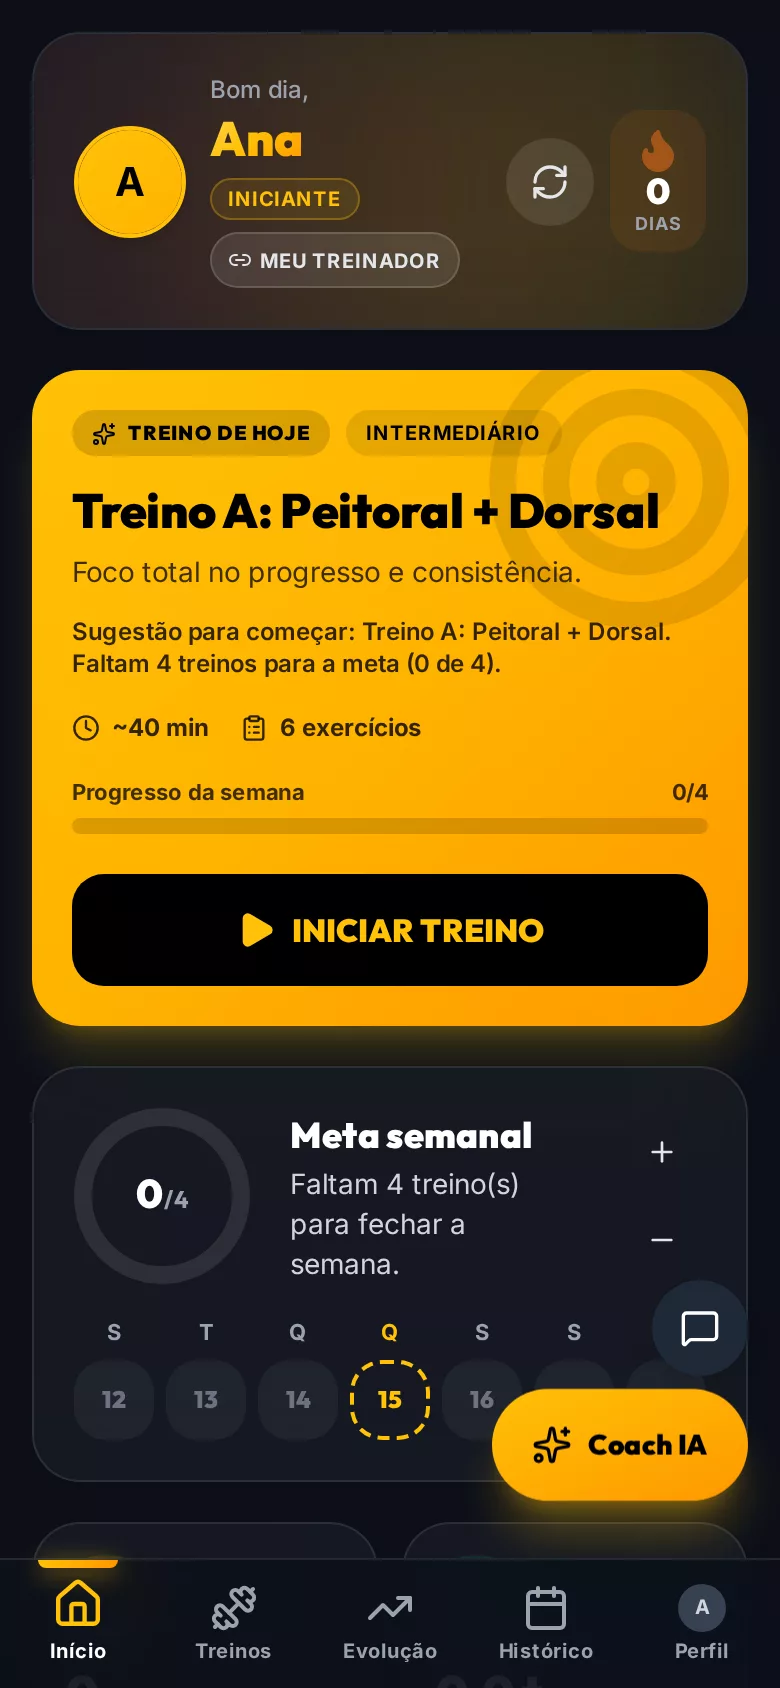
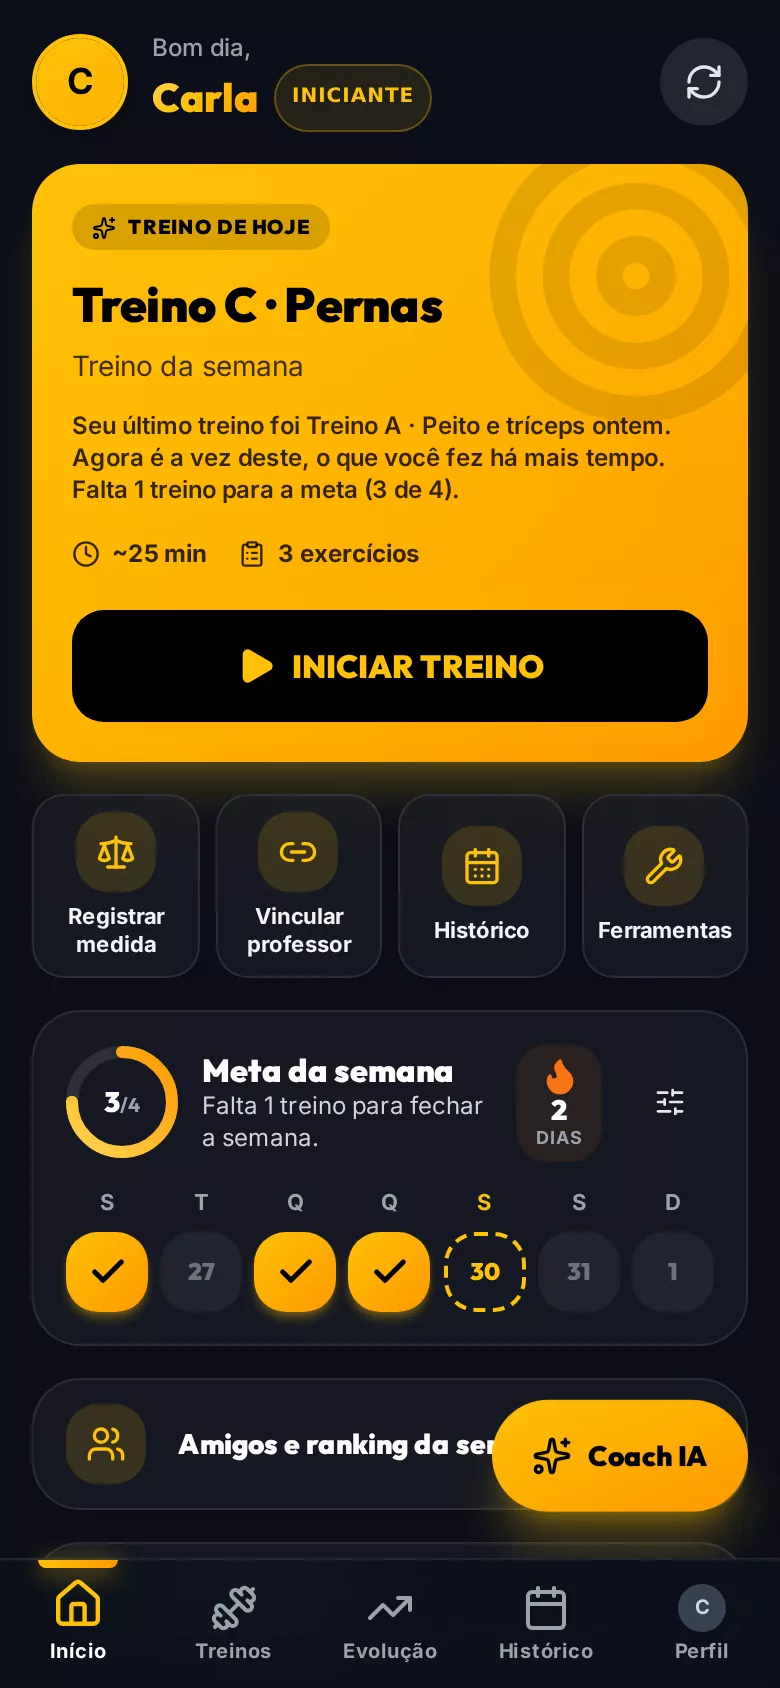
feat(landing): telas atuais, recursos à vista e passos numerados; Gestão com exemplo realista e CTA claro (#164)

diff --git a/src/pages/public/LandingPage.jsx b/src/pages/public/LandingPage.jsx
@@ -9,16 +9,20 @@ import './landing.css';
 // Telas reais do app (conta fictícia, dados de exemplo), recortadas como fotografias.
 const REEL = [
   { src: '/landing/descanso.webp', video: '/landing/descanso.webm', pos: '50% 48%', cap: 'Descanso automático entre as séries', alt: 'Tela do descanso: anel amarelo com a contagem 1:28 e botões de ajustar o tempo' },
-  { src: '/landing/treino.webp', pos: '50% 22%', cap: 'Carga e repetições com um toque', alt: 'Tela do treino em andamento: Supino Máquina, meta de 3 séries de 10 e botões de carga' },
-  { src: '/landing/coach-ia.webp', pos: '50% 62%', cap: 'O Coach de IA monta a ficha que você pede', alt: 'Conversa com o Coach de IA: ficha de pernas só com máquinas' },
-  { src: '/landing/fichas.webp', pos: '50% 38%', cap: 'Fichas prontas para começar hoje', alt: 'Biblioteca de fichas de treino do app' }
+  { src: '/landing/treino.webp', pos: '50% 22%', cap: 'Carga e repetições com um toque', alt: 'Tela do treino em andamento: Supino Reto com Barra, sugestão de subir para 42,5 kg e as séries' },
+  { src: '/landing/inicio.webp', pos: '50% 20%', cap: 'O treino de hoje e a meta da semana', alt: 'Início do app: treino de hoje (Treino C, Pernas), motivo da sugestão e meta da semana 3 de 4' },
+  { src: '/landing/evolucao.webp', pos: '50% 20%', cap: 'Evolução de cargas, medidas e nível', alt: 'Tela de evolução: treinos e volume do mês, minutos treinados e maior carga' },
+  { src: '/landing/compartilhar.webp', pos: '50% 50%', cap: 'Imagem do treino pronta para os stories', alt: 'Imagem de treino concluído: Treino A, 48 minutos, 12.346 kg de volume, recorde no supino' },
+  { src: '/landing/coach-ia.webp', pos: '50% 62%', cap: 'O Coach de IA monta a ficha que você pede', alt: 'Conversa com o Coach de IA: ficha de pernas só com máquinas' }
 ];
 
-const SWITCHES = [
+// Recursos em faixas, todos à vista (antes eram interruptores que pareciam recursos desligados).
+const FEATURES = [
   { say: 'O descanso entre séries conta sozinho.', then: 'Registrou a série, o cronômetro de descanso já está rodando.' },
   { say: 'Sem sinal, o treino continua salvo.', then: 'Tudo sincroniza sozinho quando a rede volta.' },
   { say: 'A IA monta a ficha que você pede.', then: 'Só máquinas, o grupo que quiser, em segundos.' },
-  { say: 'Cada carga vira gráfico de evolução.', then: 'Carga, volume e medidas ao longo das semanas.' },
+  { say: 'Cada carga vira gráfico de evolução.', then: 'Carga, volume, medidas e avaliação física ao longo das semanas.' },
+  { say: 'Amigos, desafios e conquistas.', then: 'Desafio em grupo com placar, níveis e a imagem do treino pronta para os stories.' },
   { say: 'Seu treinador ajusta e você recebe.', then: 'Chat e fichas atualizadas dentro do próprio app.' }
 ];
 
@@ -97,7 +101,6 @@ export default function LandingPage() {
   const [away, setAway] = useState(false);
   const [ctaSeen, setCtaSeen] = useState(false);
   const [ask, setAsk] = useState(EXAMPLES[0]);
-  const [on, setOn] = useState([true, false, true, false, false]);
   const [stage, setStage] = useState(0);
   const reduceMotion = typeof window !== 'undefined' && window.matchMedia?.('(prefers-reduced-motion: reduce)').matches;
   const lastY = useRef(0);
@@ -152,7 +155,6 @@ export default function LandingPage() {
   const continueWorkout = () => navigate(`/execution/${activeSession.trainingId}`);
   const primaryLabel = activeSession ? 'Continuar treino ativo' : user ? 'Ir para o meu painel' : 'Criar conta grátis';
   const primary = activeSession ? continueWorkout : goPrimary;
-  const toggle = (i) => setOn((list) => list.map((v, k) => (k === i ? !v : v)));
 
   return (
     <div className={`lp ${js ? 'js' : ''}`}>
@@ -230,12 +232,12 @@ export default function LandingPage() {
         <section className="steps" aria-labelledby="steps-title">
           <h2 id="steps-title" className="sr-only">Como começar</h2>
           <div className="steps-left">
-            <div className="rail" data-in>
-              <ol aria-hidden="true">{STAGES.map((s, i) => <li key={s.name} className={i === stage ? 'now' : ''}>{s.name}</li>)}</ol>
-              <div className="track">
-                <span className="base" /><span className="fill" style={{ '--p': `${(stage / (STAGES.length - 1)) * 100}%` }} />
-                <input type="range" min="0" max={STAGES.length - 1} step="1" value={stage} onChange={(e) => setStage(Number(e.target.value))} aria-label="Etapa" aria-valuetext={STAGES[stage].clause} />
-              </div>
+            <div className="rail" data-in role="tablist" aria-label="Como começar">
+              {STAGES.map((st, i) => (
+                <button key={st.name} type="button" role="tab" aria-selected={i === stage} className={`step-tab ${i === stage ? 'now' : ''}`} onClick={() => setStage(i)}>
+                  <span className="n">{i + 1}</span>{st.name}
+                </button>
+              ))}
             </div>
             <p className="clause" aria-live="polite" data-in>{STAGES[stage].clause}</p>
             <p className="detail">{STAGES[stage].detail}</p>
@@ -247,11 +249,10 @@ export default function LandingPage() {
 
         <section id="recursos" className="bands" aria-labelledby="bands-title">
           <h2 id="bands-title" className="sr-only">O que o app faz</h2>
-          {SWITCHES.map((s, i) => (
-            <div key={s.say} className={`band c${i} ${on[i] ? 'on' : ''}`} data-in style={{ '--i': i % 2 }}>
-              <h3>{s.say}</h3>
-              <button type="button" role="switch" aria-checked={on[i]} aria-label={s.say} className="switch" onClick={() => toggle(i)} />
-              <p aria-hidden={!on[i]}>{s.then}</p>
+          {FEATURES.map((f, i) => (
+            <div key={f.say} className={`band c${i} on`} data-in style={{ '--i': i % 2 }}>
+              <h3>{f.say}</h3>
+              <p>{f.then}</p>
             </div>
           ))}
         </section>

diff --git a/src/pages/public/landing.css b/src/pages/public/landing.css
@@ -110,19 +110,12 @@
 
 /* faixas com interruptor */
 .lp .bands { background: var(--bg); }
-.lp .band { display: grid; grid-template-columns: minmax(0, 1fr) auto; align-items: center; column-gap: 24px; min-height: 20vh; padding: 28px var(--margin); color: var(--muted); transition: background-color .35s var(--ease), color .35s var(--ease); }
+.lp .band { display: grid; grid-template-columns: minmax(0, 1fr); align-items: center; column-gap: 24px; min-height: 20vh; padding: 28px var(--margin); color: var(--muted); transition: background-color .35s var(--ease), color .35s var(--ease); }
 .lp .band h3 { font: 700 var(--d-l)/0.95 var(--display); text-transform: uppercase; letter-spacing: -0.02em; }
 .lp .band p { grid-column: 1 / 2; max-height: 0; overflow: hidden; opacity: 0; font-size: var(--step-body); transition: max-height .35s var(--ease), opacity .3s, margin-top .35s var(--ease); }
 .lp .band.on { color: var(--accent-ink); }
 .lp .band.on p { max-height: 80px; opacity: 1; margin-top: 12px; }
-.lp .band.c0.on { background: var(--accent); } .lp .band.c1.on { background: #ffffff; } .lp .band.c2.on { background: #ffd54f; } .lp .band.c3.on { background: #e8e8e4; } .lp .band.c4.on { background: #ffb300; }
-.lp .switch { position: relative; grid-row: 1 / 3; grid-column: 2; width: 3.6em; height: 1.9em; font-size: clamp(18px, 2vw, 30px); background: #3a3a3a; border: 0; border-radius: 999px; cursor: pointer; padding: 0; transition: background-color .25s; }
-.lp .switch::before { content: ''; position: absolute; left: 0.2em; top: 0.2em; width: 1.5em; height: 1.5em; border-radius: 50%; background: #fff; transition: transform .25s var(--ease); }
-.lp .band.on .switch { background: var(--accent-ink); }
-.lp .band.on .switch::before { transform: translateX(1.7em); }
-.lp .switch::after { content: ''; position: absolute; inset: -0.4em -0.2em; }
-.lp .switch:focus-visible { outline: 3px solid var(--accent); outline-offset: 4px; }
-.lp .band.on .switch:focus-visible { outline-color: var(--accent-ink); }
+.lp .band.c0.on { background: var(--accent); } .lp .band.c1.on { background: #ffffff; } .lp .band.c2.on { background: #ffd54f; } .lp .band.c3.on { background: #e8e8e4; } .lp .band.c4.on { background: #ffb300; } .lp .band.c5.on { background: var(--surface); color: var(--ink); }
 
 /* como funciona: dois campos e um controle deslizante */
 .lp .steps { display: grid; grid-template-columns: 1fr 1fr; position: relative; }
@@ -131,18 +124,11 @@
 .lp .steps-right .phone { --ph: min(72svh, 660px); }
 .lp .detail { margin-top: 22px; max-width: 34ch; font-size: var(--step-lead); line-height: 1.3; color: var(--muted); }
 .lp .clause { font: 700 var(--d-l)/0.92 var(--display); text-transform: uppercase; letter-spacing: -0.02em; max-width: 12ch; }
-.lp .rail { position: absolute; left: var(--margin); right: var(--margin); bottom: 28px; z-index: 2; display: flex; flex-direction: column; gap: 14px; }
-.lp .track { position: relative; height: 40px; }
-.lp .track .base, .lp .track .fill { position: absolute; left: 0; top: 16px; height: 8px; pointer-events: none; }
-.lp .track .base { right: 0; background: #555; }
-.lp .track .fill { width: var(--p, 0%); background: #fff; transition: width .2s var(--ease); }
-.lp .rail input[type=range] { -webkit-appearance: none; appearance: none; position: absolute; inset: 0; width: 100%; height: 40px; margin: 0; background: transparent; cursor: pointer; }
-.lp .rail input[type=range]::-webkit-slider-runnable-track { height: 40px; background: transparent; }
-.lp .rail input[type=range]::-moz-range-track { height: 40px; background: transparent; }
-.lp .rail input[type=range]::-webkit-slider-thumb { -webkit-appearance: none; width: 32px; height: 32px; margin-top: 4px; background: var(--accent); border: 0; border-radius: 4px; }
-.lp .rail input[type=range]::-moz-range-thumb { width: 32px; height: 32px; background: var(--accent); border: 0; border-radius: 4px; }
-.lp .rail ol { display: grid; grid-template-columns: repeat(4, 1fr); gap: 8px; font-size: var(--step-small); color: var(--muted); }
-.lp .rail li.now { color: var(--ink); font-weight: 500; }
+.lp .rail { position: absolute; left: var(--margin); right: var(--margin); bottom: 28px; z-index: 2; display: grid; grid-template-columns: repeat(4, 1fr); gap: 8px; }
+.lp .step-tab { display: flex; flex-direction: column; align-items: flex-start; gap: 6px; min-height: 64px; padding: 10px 10px 12px; border: 0; border-top: 4px solid #444; background: transparent; color: var(--muted); font: 500 var(--step-small)/1.1 var(--text); text-align: left; cursor: pointer; transition: border-color .2s var(--ease), color .2s; }
+.lp .step-tab .n { font: 700 24px/1 var(--display); }
+.lp .step-tab.now { border-top-color: var(--accent); color: var(--ink); }
+.lp .step-tab:hover { color: var(--ink); }
 
 /* dúvidas: título largo, perguntas recuadas */
 .lp .faq { display: grid; gap: 80px; }
@@ -206,7 +192,7 @@
   .lp .frame { justify-self: center; margin: 14px 0 18px; } .lp .phone { --ph: min(40svh, 380px); } .lp .disc { width: calc(min(40svh, 380px) * 0.92); }
   .lp .steps-right .phone { --ph: min(36svh, 330px); }
   .lp .cap { max-width: none; min-height: 0; text-align: right; font-size: var(--step-small); }
-  .lp .band { min-height: 132px; grid-template-columns: minmax(0, 76%) auto; padding: 24px var(--margin); }
+  .lp .band { min-height: 132px; grid-template-columns: minmax(0, 1fr); padding: 24px var(--margin); }
   .lp .band h3 { font-size: 7.4vw; line-height: 1; }
   .lp .steps { grid-template-columns: 1fr; min-height: 0; }
   .lp .steps-right { order: -1; height: 58svh; padding: 24px 0; }

diff --git a/gestao/src/pages/landing/landing.css b/gestao/src/pages/landing/landing.css
@@ -104,6 +104,10 @@
 .device-island { position: absolute; top: 10px; left: 50%; width: 30%; height: 14px; border-radius: 999px; background: #000; transform: translateX(-50%); }
 .device-screen { height: 100%; overflow: hidden; border-radius: 34px; background: #f5f6f8; }
 .shot img { width: 100%; height: auto; display: block; }
+.shot .pic.fit { height: auto; align-items: center; }
+.device.short { width: min(420px, 92%); padding: var(--bezel); border-radius: 22px; height: auto; align-self: center; }
+.device.short::before, .device.short::after { display: none; }
+.device.short .device-screen { height: auto; border-radius: 14px; }
 .shot:hover .device { transform: translateY(-6px); }
 .shot figcaption { max-width: 44ch; }
 .shot figcaption b { font-weight: 500; display: block; font-family: var(--display); text-transform: uppercase; font-size: 1.5rem; line-height: 1; margin-bottom: 6px; }
@@ -140,7 +144,7 @@ details[open] .plus::after { transform: rotate(0); }
 .cta-note { position: absolute; left: var(--m); top: 24px; max-width: 28ch; font-size: 1.25rem; font-weight: 500; line-height: 1.3; }
 .cta-arrow { position: absolute; right: var(--m); top: 20px; width: 48px; height: 48px; transition: transform .25s cubic-bezier(.16, 1, .3, 1); }
 .cta:hover .cta-arrow { transform: translate(6px, -6px); }
-.cta-word { position: absolute; left: var(--m); bottom: 12px; font-family: var(--display); font-weight: 700; text-transform: uppercase; font-size: 28vw; line-height: 0.78; letter-spacing: -0.02em; }
+.cta-word { position: absolute; left: var(--m); bottom: 12px; font-family: var(--display); font-weight: 700; text-transform: uppercase; font-size: clamp(64px, 11vw, 190px); line-height: 0.9; letter-spacing: -0.02em; max-width: 9ch; }
 
 /* ---------- rodapé: o nome volta em largura total ---------- */
 .foot { background: var(--bg); padding: 40px var(--m) 20px; min-height: 70svh; display: flex; flex-direction: column; justify-content: space-between; gap: 80px; }
@@ -187,6 +191,8 @@ details[open] .plus::after { transform: rotate(0); }
   .shot-grid { grid-template-columns: 1fr; }
   .sh0, .sh1, .sh2, .sh3 { grid-column: 1; }
   .shot .pic { height: 440px; }
+  .shot .pic.fit { height: auto; }
+  .device.short { width: 92%; border-radius: 20px; }
   .device { width: min(260px, 78%); border-radius: 40px; }
   .device-screen { border-radius: 30px; }
   .next { display: block; padding: 10vh var(--m); }
@@ -194,10 +200,10 @@ details[open] .plus::after { transform: rotate(0); }
   .faq { display: block; padding: 12vh var(--m); }
   .faq h2 { position: static; font-size: 9vw; margin-bottom: 20px; }
   .qa summary { font-size: 1.125rem; }
-  .cta { min-height: 46svh; }
+  .cta { min-height: 34svh; }
   .cta-note { font-size: 1.0625rem; max-width: 22ch; }
   .cta-arrow { width: 32px; height: 32px; }
-  .cta-word { font-size: 40vw; bottom: 8px; }
+  .cta-word { font-size: 19vw; bottom: 16px; }
   .foot { min-height: 0; gap: 56px; }
   .foot-top { display: flex; flex-direction: column; gap: 10px; }
   .foot-top nav { justify-content: flex-start; }

diff --git a/gestao/src/pages/landing/Landing.jsx b/gestao/src/pages/landing/Landing.jsx
@@ -19,7 +19,8 @@ function useReveal() {
 
 // A coisa viva do herói: o quadro de mensalidades do mês. Dar baixa muda os totais na hora, como no produto.
 function Board() {
-  const [paid, setPaid] = useState([]);
+  // Começa com parte do mês já paga (como num dia real); dar baixa nos outros atualiza os totais.
+  const [paid, setPaid] = useState([3, 4]);
   const sum = (list) => list.reduce((t, c) => t + c.cents, 0);
   const received = sum(DEMO.filter((c) => paid.includes(c.id)));
   const late = sum(DEMO.filter((c) => c.late && !paid.includes(c.id)));
@@ -105,9 +106,10 @@ export default function Landing() {
           <div className="shot-grid">
             {SHOTS.map((s, i) => (
               <figure key={s.title} className={`shot sh${i}`} data-reveal>
-                <div className="pic">
-                  <div className="device">
-                    <span className="device-island" aria-hidden="true" />
+                <div className={`pic ${s.h / s.w < 1.6 ? 'fit' : ''}`}>
+                  {/* Print de celular vai na moldura de celular; recorte de tela (mais largo) vai num cartão do tamanho do print, sem sobrar tela vazia. */}
+                  <div className={`device ${s.h / s.w < 1.6 ? 'short' : ''}`}>
+                    {s.h / s.w >= 1.6 && <span className="device-island" aria-hidden="true" />}
                     <div className="device-screen"><img src={s.img} width={s.w} height={s.h} alt={s.alt} loading="lazy" decoding="async" /></div>
                   </div>
                 </div>
@@ -134,7 +136,7 @@ export default function Landing() {
         <Link className="cta" to="/login?modo=cadastro" aria-label="Criar academia: cadastre os planos, convide a equipe e matricule o primeiro aluno">
           <span className="cta-note">Crie a academia, convide a equipe e cadastre o primeiro plano.</span>
           <svg className="cta-arrow" viewBox="0 0 48 48" width="48" height="48" aria-hidden="true"><path d="M14 34 34 14M18 14h16v16" fill="none" stroke="currentColor" strokeWidth="4" /></svg>
-          <span className="cta-word" aria-hidden="true">Criar</span>
+          <span className="cta-word" aria-hidden="true">Criar academia</span>
         </Link>
       </main>
 

diff --git a/docs/DIAGNOSTICO.md b/docs/DIAGNOSTICO.md
@@ -904,3 +904,7 @@ O painel (`/dashboard`) foi desenhado quando havia pouca informação; agora há
 - **Tela de treino:** nome do exercício em até 2 linhas (era cortado), etiquetas quebram linha, ações numa linha só (Copiar, Trocar, Nota; o campo de nota abre ao tocar ou quando já há nota), carga sugerida com vírgula ("42,5"), "CONCLUIR SÉRIE #1 E DESCANSAR".
 - **Imagem para compartilhar** (`utils/shareCard.js`): na conclusão do treino, imagem 1080×1920 desenhada no aparelho (canvas) com treino, data, tempo, volume, séries, exercícios, recordes e o que evoluiu, mais "Treine comigo no BohTreinar" e o endereço. Prévia na tela; no celular abre o menu de compartilhar com o arquivo (stories, WhatsApp); no computador baixa o PNG; sem canvas, cai no texto. Não leva nome, e-mail nem foto.
 - **Texto:** "Falta 1 treino" no singular também na sugestão e no resumo semanal.
+
+## Atualização — páginas públicas (app e Gestão) (30/10/2026)
+- **Página do app:** prints de "Telas do app" refeitos com as telas atuais no tema escuro (início com o treino de hoje, treino em andamento, evolução, imagem para os stories), conta fictícia apagada depois. Os recursos deixaram de ser interruptores (metade aparecia "desligada", parecendo recurso desativado) e viraram faixas sempre abertas, incluindo amigos/desafios/conquistas e avaliação física. O passo a passo trocou a barra deslizante por 4 botões numerados (Conta, Ficha, Treino, Evolução).
+- **Gestão:** o quadro de exemplo começa com parte do mês paga (Recebido R$ 390,00, atrasados e pendentes), em vez de R$ 0,00 e cinco botões iguais; recortes de tela largos ficam num cartão do tamanho do print (sem metade da moldura de celular vazia); o fim da página diz "Criar academia" em vez de só "Criar".
